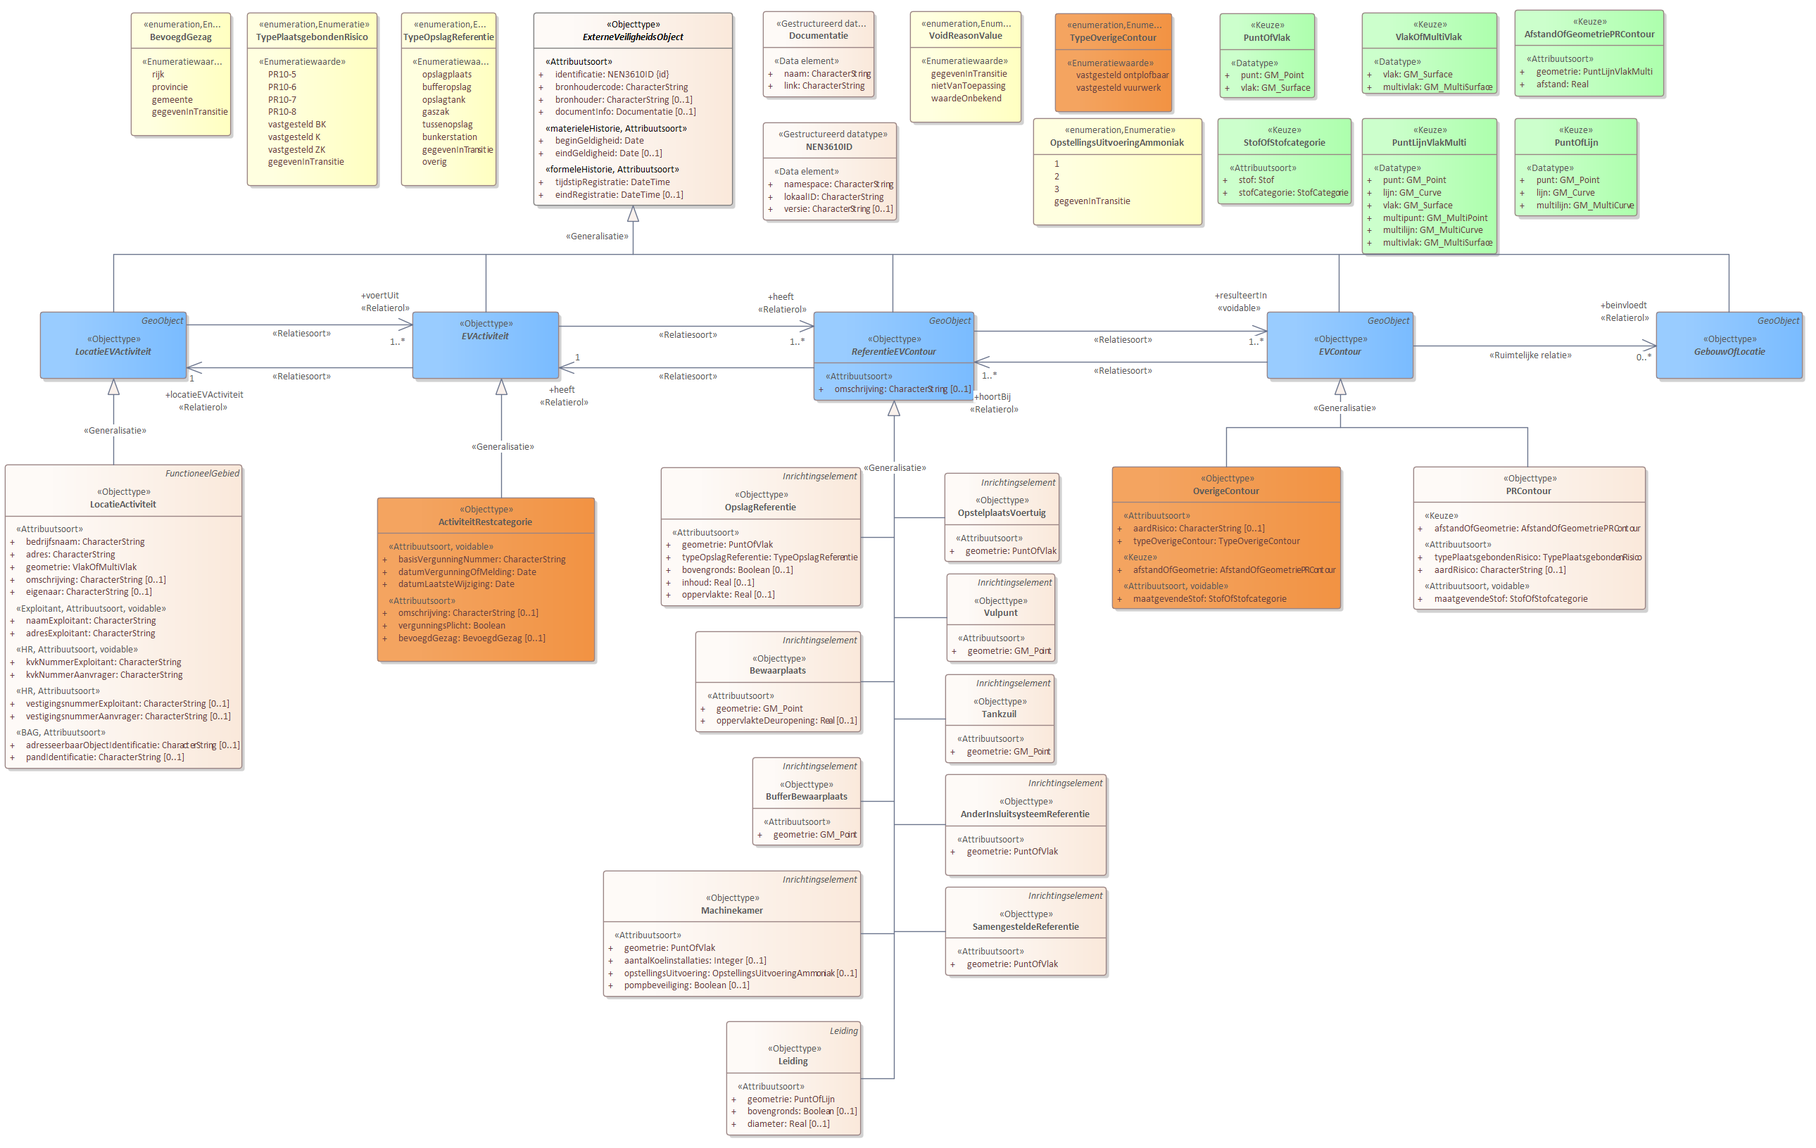
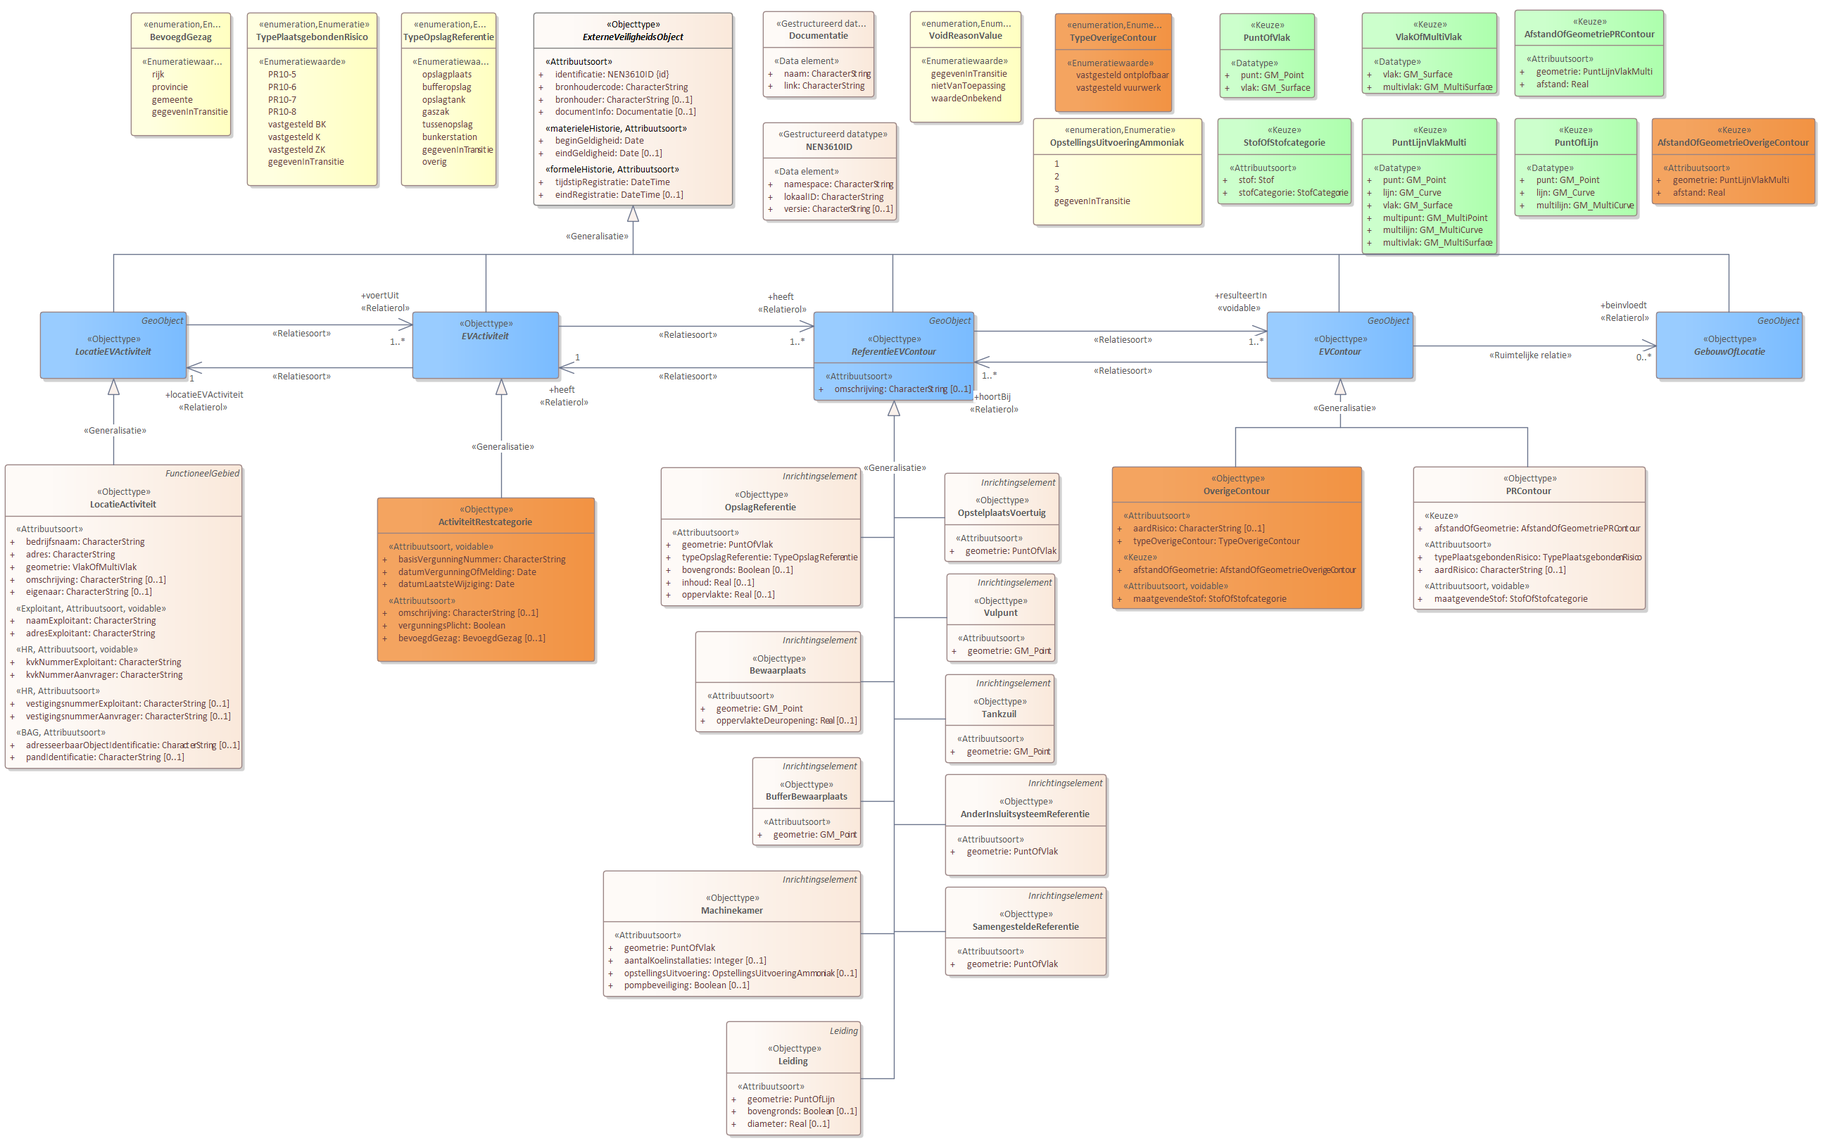
MIMCM-IMEV-conceptueel-1.1-0-20220428-20221111-122644

diff --git a/data/imev-werkomgeving-cat.respec.html b/data/imev-werkomgeving-cat.respec.html
@@ -1,7 +1,7 @@
 
 <!DOCTYPE HTML><section id="cat" class="normative">
    <h2>Gegevensdefinitie</h2>
-   <!--MIMCM-IMEV-conceptueel-1.1-0-20220428-20221111-121411 imvertor 1.65.4--><a class="anchor" id="global_package_IMEVBasis"></a><section id="global_package_IMEVBasis">
+   <!--MIMCM-IMEV-conceptueel-1.1-0-20220428-20221111-122644 imvertor 1.65.4--><a class="anchor" id="global_package_IMEVBasis"></a><section id="global_package_IMEVBasis">
       <h3>Domein   IMEV-basis</h3>
       <section id="EAID_90555E69_004F_4af9_B918_EED2BB1789DB">
          <h4>   Basismodel: kern - overzicht</h4>
@@ -2003,7 +2003,7 @@
       </section>
       <section id="EAID_7564D121_5DC8_458b_AD11_6AFDCDC1CA4E">
          <h4>   Activiteit - Restcategorie - detail</h4>
-         <div class="imageinfo "><img src="data/Images/EAID_7564D121_5DC8_458b_AD11_6AFDCDC1CA4E.png" usemap="#imagemap-EAID_7564D121_5DC8_458b_AD11_6AFDCDC1CA4E" alt="Diagram &#xA;                        &#xA;                           ActiviteitRestcategorie is gecreëerd om activiteiten die in het RRGS zitten en niet onder een BKLActiviteit geclassificeerd worden ook naar het REV te kunnen converteren. Met het attribuut omschrijving kan de activiteit omschreven of benoemd worden.&#xA;                        &#xA;                        Een aantal referentieobjecten kunnen daarbij van belang zijn:&#xA;                        &#xA;                        &#xA;                           OpslagReferentie&#xA;                           Bewaarplaats&#xA;                           BufferBewaarplaats&#xA;                           Machinekamer&#xA;                           Leiding&#xA;                        &#xA;                        &#xA;                        &#xA;                        &#xA;                           OpstelplaatsVoertuig&#xA;                           Vulpunt&#xA;                           Tankzuil&#xA;                           AnderInsluitsysteemReferentie&#xA;                           SamengesteldeReferentie&#xA;                        &#xA;                        &#xA;                        &#xA;                        Voor de EVContour zijn de volgende typen gedefinieerd:&#xA;                        &#xA;                        &#xA;                           OverigeContour&#xA;                           PRContour&#xA;                        &#xA;                        &#xA;                     "><map name="imagemap-EAID_7564D121_5DC8_458b_AD11_6AFDCDC1CA4E"><area shape="rect" alt="TypeOverigeContour" coords="1499,19,1665,159" href="#graph_EAID_31999A04_22AB_4469_B3CC_88FB58FE1F3E"><area shape="rect" alt="OverigeContour" coords="1580,663,1905,865" href="#graph_EAID_CE913D5B_3645_49ed_9E84_424CD99EAB4A"><area shape="rect" alt="LocatieActiviteit" coords="7,660,344,1092" href="#graph_EAID_F20C1B1F_C128_4c2d_9542_5BAC24062B61"><area shape="rect" alt="OpstellingsUitvoeringAmmoniak" coords="1468,168,1708,320" href="#graph_EAID_D700D9D6_0AAE_4bd7_8A03_69EBEC023F2C"><area shape="rect" alt="PuntOfLijn" coords="2152,168,2326,307" href="#graph_EAID_40490449_E327_42fc_A08D_5572B5109C5A"><area shape="rect" alt="BevoegdGezag" coords="186,18,328,193" href="#graph_EAID_D3BE1A5E_BD69_4104_83C0_CFC00F934400"><area shape="rect" alt="AfstandOfGeometriePRContour" coords="2152,14,2364,137" href="#graph_EAID_34BDB83E_C2C3_4829_9FE4_6A484F51B36B"><area shape="rect" alt="PuntLijnVlakMulti" coords="1935,168,2127,361" href="#graph_EAID_BE415FD8_EEEB_443e_8A9D_579C67E2E724"><area shape="rect" alt="StofOfStofcategorie" coords="1730,168,1920,290" href="#graph_EAID_D6F9C787_BAA9_49a9_94B8_1C19A7305E84"><area shape="rect" alt="PuntOfVlak" coords="1733,19,1868,139" href="#graph_EAID_62AFE6CA_8062_41ca_A9CB_94FA3B12C8BA"><area shape="rect" alt="VlakOfMultiVlak" coords="1935,18,2127,133" href="#graph_EAID_86FCE29B_D25F_45b5_BA92_7CE173BF2EE2"><area shape="rect" alt="TypeOpslagReferentie" coords="570,18,705,264" href="#graph_EAID_2E7FA409_0A5C_43bf_8D6E_CC0CD2545337"><area shape="rect" alt="TypePlaatsgebondenRisico" coords="351,18,536,264" href="#graph_EAID_636226E1_8030_4867_B19F_BB2599140AA9"><area shape="rect" alt="ActiviteitRestcategorie" coords="536,707,845,940" href="#graph_EAID_9FD93037_B507_4db3_96E8_60BABDE4D80C"><area shape="rect" alt="PRContour" coords="2008,663,2338,866" href="#graph_EAID_B768FDC9_8444_4437_8A41_D976631757C3"><area shape="rect" alt="SamengesteldeReferentie" coords="1343,1260,1572,1386" href="#graph_EAID_CBB1E634_0AF9_45f7_B1DE_B2DED4A65BD2"><area shape="rect" alt="AnderInsluitsysteemReferentie" coords="1343,1100,1572,1244" href="#graph_EAID_FAA895CE_3630_4116_9F46_64A4797429A8"><area shape="rect" alt="Tankzuil" coords="1343,958,1498,1084" href="#graph_EAID_6B0C04B3_2C57_4ec8_83BB_430FB9B63635"><area shape="rect" alt="Vulpunt" coords="1345,815,1499,940" href="#graph_EAID_5C946936_DFA1_4ad7_A7AA_DB73C06AC54E"><area shape="rect" alt="OpstelplaatsVoertuig" coords="1342,672,1505,798" href="#graph_EAID_274E1D8A_350A_4d15_995C_58A99328B763"><area shape="rect" alt="Leiding" coords="1032,1451,1223,1613" href="#graph_EAID_08FD87D1_8301_4fdc_A440_ED68C42FC343"><area shape="rect" alt="Machinekamer" coords="857,1237,1223,1416" href="#graph_EAID_7B3ADE7D_4EA4_4d13_814E_7C12A399FEAD"><area shape="rect" alt="BufferBewaarplaats" coords="1069,1076,1223,1201" href="#graph_EAID_1000536A_F7D2_4310_8929_7E7B179E516A"><area shape="rect" alt="Bewaarplaats" coords="988,897,1223,1040" href="#graph_EAID_A79B251C_54F1_4164_ACC2_A5A2C6F4EE96"><area shape="rect" alt="OpslagReferentie" coords="939,664,1223,861" href="#graph_EAID_A0CE7A0A_9D5E_436b_8CE3_420444058145"><area shape="rect" alt="VoidReasonValue" coords="1293,16,1451,174" href="#graph_EAID_7E381468_A04E_45e9_BBBA_FCE1C66DFC50"><area shape="rect" alt="Documentatie" coords="1084,16,1242,138" href="#graph_EAID_36400497_F184_44ca_9236_B54B288ECB9C"><area shape="rect" alt="NEN3610ID" coords="1084,174,1274,313" href="#graph_EAID_F3ACE733_362C_4879_AC17_5DB8F04A22EE"><area shape="rect" alt="ExterneVeiligheidsObject" coords="758,18,1041,292" href="#graph_EAID_F0E277F8_53FE_432c_A89A_44192BD00F40"><area shape="rect" alt="ReferentieEVContour" coords="1156,443,1384,569" href="#graph_EAID_52CE468A_EFD4_456f_AE41_A37D10A734E2"><area shape="rect" alt="LocatieEVActiviteit" coords="57,443,265,538" href="#graph_EAID_F3484DF8_6A11_4275_B3F8_64B18DBC99F3"><area shape="rect" alt="GebouwOfLocatie" coords="2353,443,2561,538" href="#graph_EAID_F0CB9459_C43C_4708_A8C5_20AC024DD270"><area shape="rect" alt="EVActiviteit" coords="586,443,794,538" href="#graph_EAID_832B8803_BBCD_4b5e_A70A_A03C4CD53A87"><area shape="rect" alt="EVContour" coords="1800,443,2008,538" href="#graph_EAID_494964B8_DB08_4f6e_B3FA_1471E8E5D046"></map><p><b>Activiteit - Restcategorie - detail</b>
+         <div class="imageinfo "><img src="data/Images/EAID_7564D121_5DC8_458b_AD11_6AFDCDC1CA4E.png" usemap="#imagemap-EAID_7564D121_5DC8_458b_AD11_6AFDCDC1CA4E" alt="Diagram &#xA;                        &#xA;                           ActiviteitRestcategorie is gecreëerd om activiteiten die in het RRGS zitten en niet onder een BKLActiviteit geclassificeerd worden ook naar het REV te kunnen converteren. Met het attribuut omschrijving kan de activiteit omschreven of benoemd worden.&#xA;                        &#xA;                        Een aantal referentieobjecten kunnen daarbij van belang zijn:&#xA;                        &#xA;                        &#xA;                           OpslagReferentie&#xA;                           Bewaarplaats&#xA;                           BufferBewaarplaats&#xA;                           Machinekamer&#xA;                           Leiding&#xA;                        &#xA;                        &#xA;                        &#xA;                        &#xA;                           OpstelplaatsVoertuig&#xA;                           Vulpunt&#xA;                           Tankzuil&#xA;                           AnderInsluitsysteemReferentie&#xA;                           SamengesteldeReferentie&#xA;                        &#xA;                        &#xA;                        &#xA;                        Voor de EVContour zijn de volgende typen gedefinieerd:&#xA;                        &#xA;                        &#xA;                           OverigeContour&#xA;                           PRContour&#xA;                        &#xA;                        &#xA;                     "><map name="imagemap-EAID_7564D121_5DC8_458b_AD11_6AFDCDC1CA4E"><area shape="rect" alt="AfstandOfGeometrieOverigeContour" coords="2347,168,2579,290" href="#graph_EAID_2FE101FB_B97D_43fc_96B2_49895E24B14E"><area shape="rect" alt="TypeOverigeContour" coords="1499,19,1665,159" href="#graph_EAID_31999A04_22AB_4469_B3CC_88FB58FE1F3E"><area shape="rect" alt="OverigeContour" coords="1580,663,1935,865" href="#graph_EAID_CE913D5B_3645_49ed_9E84_424CD99EAB4A"><area shape="rect" alt="LocatieActiviteit" coords="7,660,344,1092" href="#graph_EAID_F20C1B1F_C128_4c2d_9542_5BAC24062B61"><area shape="rect" alt="OpstellingsUitvoeringAmmoniak" coords="1468,168,1708,320" href="#graph_EAID_D700D9D6_0AAE_4bd7_8A03_69EBEC023F2C"><area shape="rect" alt="PuntOfLijn" coords="2152,168,2326,307" href="#graph_EAID_40490449_E327_42fc_A08D_5572B5109C5A"><area shape="rect" alt="BevoegdGezag" coords="186,18,328,193" href="#graph_EAID_D3BE1A5E_BD69_4104_83C0_CFC00F934400"><area shape="rect" alt="AfstandOfGeometriePRContour" coords="2152,14,2364,137" href="#graph_EAID_34BDB83E_C2C3_4829_9FE4_6A484F51B36B"><area shape="rect" alt="PuntLijnVlakMulti" coords="1935,168,2127,361" href="#graph_EAID_BE415FD8_EEEB_443e_8A9D_579C67E2E724"><area shape="rect" alt="StofOfStofcategorie" coords="1730,168,1920,290" href="#graph_EAID_D6F9C787_BAA9_49a9_94B8_1C19A7305E84"><area shape="rect" alt="PuntOfVlak" coords="1733,19,1868,139" href="#graph_EAID_62AFE6CA_8062_41ca_A9CB_94FA3B12C8BA"><area shape="rect" alt="VlakOfMultiVlak" coords="1935,18,2127,133" href="#graph_EAID_86FCE29B_D25F_45b5_BA92_7CE173BF2EE2"><area shape="rect" alt="TypeOpslagReferentie" coords="570,18,705,264" href="#graph_EAID_2E7FA409_0A5C_43bf_8D6E_CC0CD2545337"><area shape="rect" alt="TypePlaatsgebondenRisico" coords="351,18,536,264" href="#graph_EAID_636226E1_8030_4867_B19F_BB2599140AA9"><area shape="rect" alt="ActiviteitRestcategorie" coords="536,707,845,940" href="#graph_EAID_9FD93037_B507_4db3_96E8_60BABDE4D80C"><area shape="rect" alt="PRContour" coords="2008,663,2338,866" href="#graph_EAID_B768FDC9_8444_4437_8A41_D976631757C3"><area shape="rect" alt="SamengesteldeReferentie" coords="1343,1260,1572,1386" href="#graph_EAID_CBB1E634_0AF9_45f7_B1DE_B2DED4A65BD2"><area shape="rect" alt="AnderInsluitsysteemReferentie" coords="1343,1100,1572,1244" href="#graph_EAID_FAA895CE_3630_4116_9F46_64A4797429A8"><area shape="rect" alt="Tankzuil" coords="1343,958,1498,1084" href="#graph_EAID_6B0C04B3_2C57_4ec8_83BB_430FB9B63635"><area shape="rect" alt="Vulpunt" coords="1345,815,1499,940" href="#graph_EAID_5C946936_DFA1_4ad7_A7AA_DB73C06AC54E"><area shape="rect" alt="OpstelplaatsVoertuig" coords="1342,672,1505,798" href="#graph_EAID_274E1D8A_350A_4d15_995C_58A99328B763"><area shape="rect" alt="Leiding" coords="1032,1451,1223,1613" href="#graph_EAID_08FD87D1_8301_4fdc_A440_ED68C42FC343"><area shape="rect" alt="Machinekamer" coords="857,1237,1223,1416" href="#graph_EAID_7B3ADE7D_4EA4_4d13_814E_7C12A399FEAD"><area shape="rect" alt="BufferBewaarplaats" coords="1069,1076,1223,1201" href="#graph_EAID_1000536A_F7D2_4310_8929_7E7B179E516A"><area shape="rect" alt="Bewaarplaats" coords="988,897,1223,1040" href="#graph_EAID_A79B251C_54F1_4164_ACC2_A5A2C6F4EE96"><area shape="rect" alt="OpslagReferentie" coords="939,664,1223,861" href="#graph_EAID_A0CE7A0A_9D5E_436b_8CE3_420444058145"><area shape="rect" alt="VoidReasonValue" coords="1293,16,1451,174" href="#graph_EAID_7E381468_A04E_45e9_BBBA_FCE1C66DFC50"><area shape="rect" alt="Documentatie" coords="1084,16,1242,138" href="#graph_EAID_36400497_F184_44ca_9236_B54B288ECB9C"><area shape="rect" alt="NEN3610ID" coords="1084,174,1274,313" href="#graph_EAID_F3ACE733_362C_4879_AC17_5DB8F04A22EE"><area shape="rect" alt="ExterneVeiligheidsObject" coords="758,18,1041,292" href="#graph_EAID_F0E277F8_53FE_432c_A89A_44192BD00F40"><area shape="rect" alt="ReferentieEVContour" coords="1156,443,1384,569" href="#graph_EAID_52CE468A_EFD4_456f_AE41_A37D10A734E2"><area shape="rect" alt="LocatieEVActiviteit" coords="57,443,265,538" href="#graph_EAID_F3484DF8_6A11_4275_B3F8_64B18DBC99F3"><area shape="rect" alt="GebouwOfLocatie" coords="2353,443,2561,538" href="#graph_EAID_F0CB9459_C43C_4708_A8C5_20AC024DD270"><area shape="rect" alt="EVActiviteit" coords="586,443,794,538" href="#graph_EAID_832B8803_BBCD_4b5e_A70A_A03C4CD53A87"><area shape="rect" alt="EVContour" coords="1800,443,2008,538" href="#graph_EAID_494964B8_DB08_4f6e_B3FA_1471E8E5D046"></map><p><b>Activiteit - Restcategorie - detail</b>
                
                <p>
                   <b>ActiviteitRestcategorie</b> is gecreëerd om activiteiten die in het RRGS zitten en niet onder een BKLActiviteit
@@ -6823,7 +6823,7 @@
                            ten opzichte van de referentiegeometrie moet bekend zijn. </p>
                         </td>
                      <td>
-                        <a class="link" href="#global_class_IMEVBasis_AfstandOfGeometriePRContour">AfstandOfGeometriePRContour</a>
+                        <a class="link" href="#global_class_IMEVBasis_AfstandOfGeometrieOverigeContour">AfstandOfGeometrieOverigeContour</a>
                         </td>
                      <td>1</td>
                   </tr>
@@ -6928,6 +6928,65 @@
                      <td></td>
                      <td>
                         GM_MultiCurve
+                        </td>
+                     <td>1</td>
+                  </tr>
+               </tbody>
+            </table>
+            
+            </section>
+         <a class="anchor" id="graph_EAID_2FE101FB_B97D_43fc_96B2_49895E24B14E"></a><a class="anchor" id="global_class_IMEVBasis_AfstandOfGeometrieOverigeContour"></a><section id="global_class_IMEVBasis_AfstandOfGeometrieOverigeContour">
+            <h5>   AfstandOfGeometrieOverigeContour</h5>
+            
+            <table style="width: 100%;">
+               <colgroup style="width: 30%;"></colgroup>
+               <colgroup style="width: 70%;"></colgroup>
+               <tbody>
+                  <tr>
+                     <th>Naam</th>
+                     <td>AfstandOfGeometrieOverigeContour</td>
+                  </tr>
+               </tbody>
+            </table>
+            
+            <h6>Overzicht keuze elementen  </h6>
+            
+            <table style="width: 100%;">
+               <colgroup style="width: 30%;"></colgroup>
+               <colgroup style="width: 50%;"></colgroup>
+               <colgroup style="width: 10%;"></colgroup>
+               <colgroup style="width: 10%;"></colgroup>
+               <tbody>
+                  <tr>
+                     <th>Keuze element</th>
+                     <th>Definitie</th>
+                     <th>Formaat</th>
+                     <th>Card</th>
+                  </tr>
+                  <tr>
+                     <td>
+                        <a class="link" href="#detail_attribute_IMEVBasis_AfstandOfGeometrieOverigeContour_geometrie">geometrie</a>
+                        </td>
+                     <td>
+                        
+                        <p>De geometrische representatie van het plaatsgebonden risico.</p>
+                        </td>
+                     <td>
+                        <a class="link" href="#global_class_IMEVBasis_PuntLijnVlakMulti">PuntLijnVlakMulti</a>
+                        </td>
+                     <td>1</td>
+                  </tr>
+                  <tr>
+                     <td>
+                        <a class="link" href="#detail_attribute_IMEVBasis_AfstandOfGeometrieOverigeContour_afstand">afstand</a>
+                        </td>
+                     <td>
+                        
+                        <p>Afstand van het plaatsgebonden risico ten opzichte van de referentiegeometrie van
+                           de locatie, waar de activiteit plaatsvindt.</p>
+                        </td>
+                     <td>
+                        <a class="external-link" href="https://geonovum.github.io/MIM-Werkomgeving/#primitive-datatypes">Real</a>
                         </td>
                      <td>1</td>
                   </tr>
@@ -12658,6 +12717,92 @@
                            <th>Type</th>
                            <td>
                               GM_MultiCurve
+                              </td>
+                        </tr>
+                     </tbody>
+                  </table>
+                  </div>
+               </section>
+            <a class="anchor" id="detail_class_IMEVBasis_AfstandOfGeometrieOverigeContour"></a><section id="detail_class_IMEVBasis_AfstandOfGeometrieOverigeContour">
+               <h6>Keuze   AfstandOfGeometrieOverigeContour</h6>
+               <a class="anchor" id="detail_attribute_IMEVBasis_AfstandOfGeometrieOverigeContour_geometrie"></a><div class="deepheader" id="detail_attribute_IMEVBasis_AfstandOfGeometrieOverigeContour_geometrie">
+                  <h7>Attribuutsoort details  <a href="#global_class_IMEVBasis_AfstandOfGeometrieOverigeContour">AfstandOfGeometrieOverigeContour</a> geometrie</h7>
+                  
+                  <table style="width: 100%;">
+                     <colgroup style="width: 30%;"></colgroup>
+                     <colgroup style="width: 70%;"></colgroup>
+                     <tbody>
+                        <tr>
+                           <th>Naam</th>
+                           <td>geometrie</td>
+                        </tr>
+                        <tr>
+                           <th>Definitie</th>
+                           <td>
+                              
+                              <p>De geometrische representatie van het plaatsgebonden risico.</p>
+                              </td>
+                        </tr>
+                        <tr>
+                           <th>Toelichting</th>
+                           <td>Coordinaten volgens coordinatensysteem EPSG:28992, het Rijksdriehoeksstelsel. Het
+                              vlak van het plaatsgebonden risico OF de afstand van het plaatsgebonden risico ten
+                              opzichte van de referentiegeometrie moet bekend zijn. Indien de afstand nul is wordt
+                              dezelfde geometrie als die van de ReferentieEVContour gevolgd.</td>
+                        </tr>
+                        <tr>
+                           <th>Mogelijk geen waarde</th>
+                           <td>Nee</td>
+                        </tr>
+                        <tr>
+                           <th>Kardinaliteit</th>
+                           <td>1</td>
+                        </tr>
+                        <tr>
+                           <th>Type</th>
+                           <td>
+                              <a class="link" href="#detail_class_IMEVBasis_PuntLijnVlakMulti">PuntLijnVlakMulti</a>
+                              </td>
+                        </tr>
+                     </tbody>
+                  </table>
+                  </div>
+               <a class="anchor" id="detail_attribute_IMEVBasis_AfstandOfGeometrieOverigeContour_afstand"></a><div class="deepheader" id="detail_attribute_IMEVBasis_AfstandOfGeometrieOverigeContour_afstand">
+                  <h7>Attribuutsoort details  <a href="#global_class_IMEVBasis_AfstandOfGeometrieOverigeContour">AfstandOfGeometrieOverigeContour</a> afstand</h7>
+                  
+                  <table style="width: 100%;">
+                     <colgroup style="width: 30%;"></colgroup>
+                     <colgroup style="width: 70%;"></colgroup>
+                     <tbody>
+                        <tr>
+                           <th>Naam</th>
+                           <td>afstand</td>
+                        </tr>
+                        <tr>
+                           <th>Definitie</th>
+                           <td>
+                              
+                              <p>Afstand van het plaatsgebonden risico ten opzichte van de referentiegeometrie van
+                                 de locatie, waar de activiteit plaatsvindt.</p>
+                              </td>
+                        </tr>
+                        <tr>
+                           <th>Toelichting</th>
+                           <td>Het vlak van het plaatsgebonden risico OF de afstand van het plaatsgebonden risico
+                              ten opzichte van de referentiegeometrie moet bekend zijn. </td>
+                        </tr>
+                        <tr>
+                           <th>Mogelijk geen waarde</th>
+                           <td>Nee</td>
+                        </tr>
+                        <tr>
+                           <th>Kardinaliteit</th>
+                           <td>1</td>
+                        </tr>
+                        <tr>
+                           <th>Type</th>
+                           <td>
+                              <a class="external-link" href="https://geonovum.github.io/MIM-Werkomgeving/#primitive-datatypes">Real</a>
                               </td>
                         </tr>
                      </tbody>
@@ -18974,7 +19119,7 @@
 </section>
 <section id="lis" class="normative">
    <h2>Inhoud van waardenlijsten</h2>
-   <!--MIMCM-IMEV-conceptueel-1.1-0-20220428-20221111-121411 imvertor 1.65.4-->
+   <!--MIMCM-IMEV-conceptueel-1.1-0-20220428-20221111-122644 imvertor 1.65.4-->
    <section id="">
       <h3>Referentielijst inhoud   </h3>
    </section>
